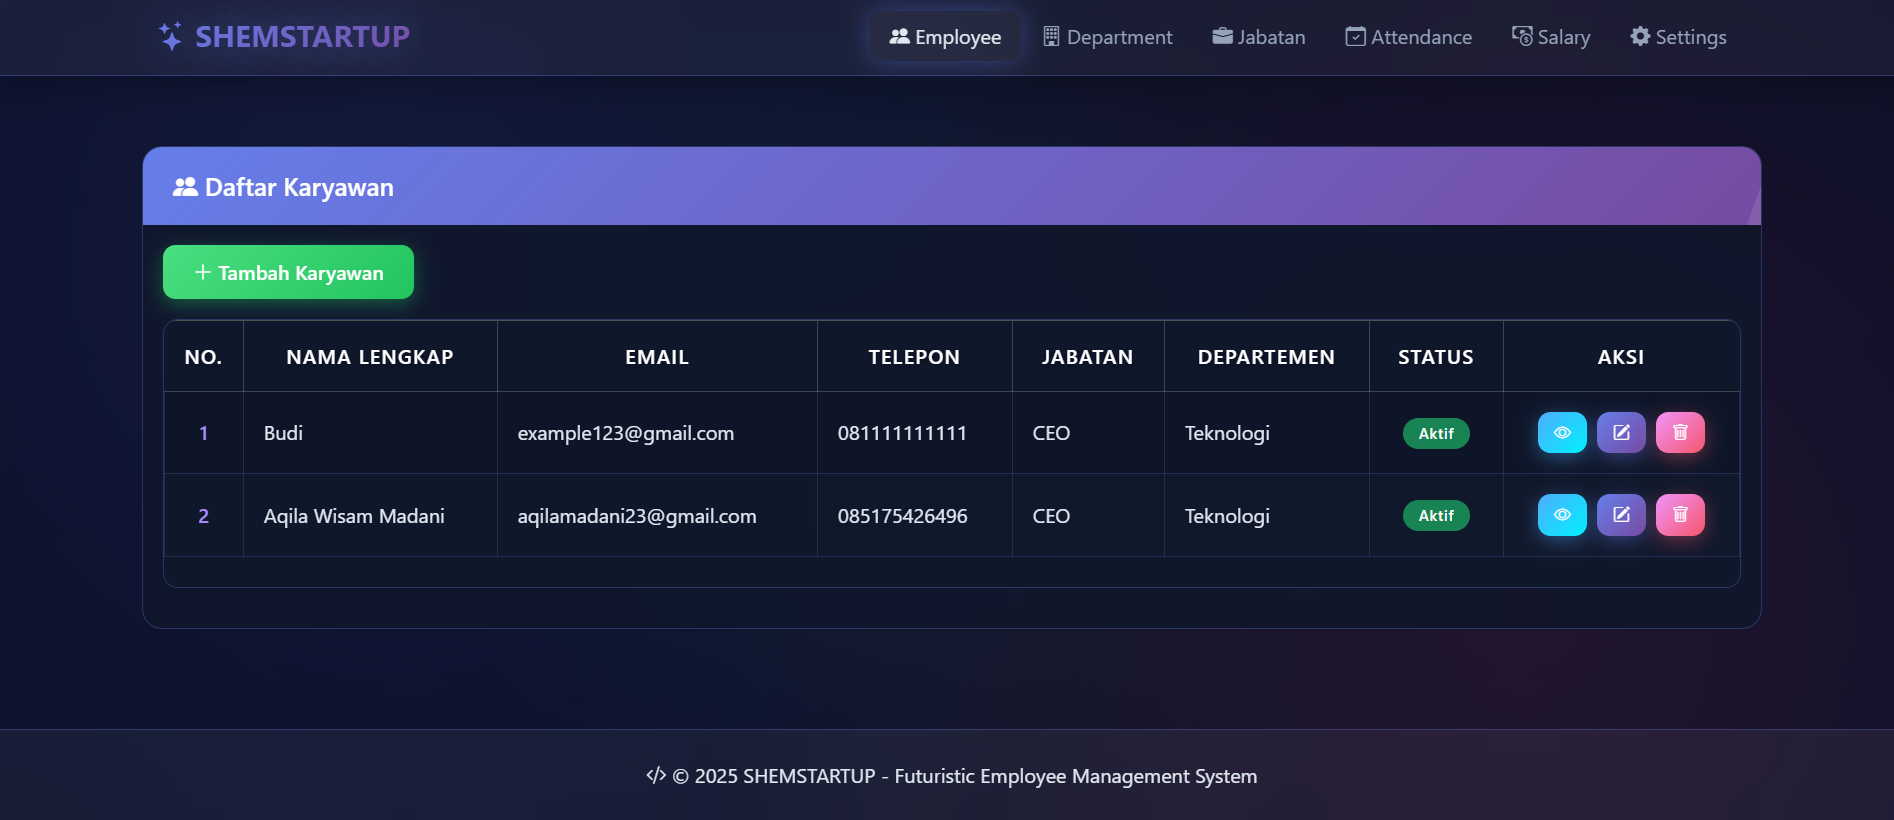
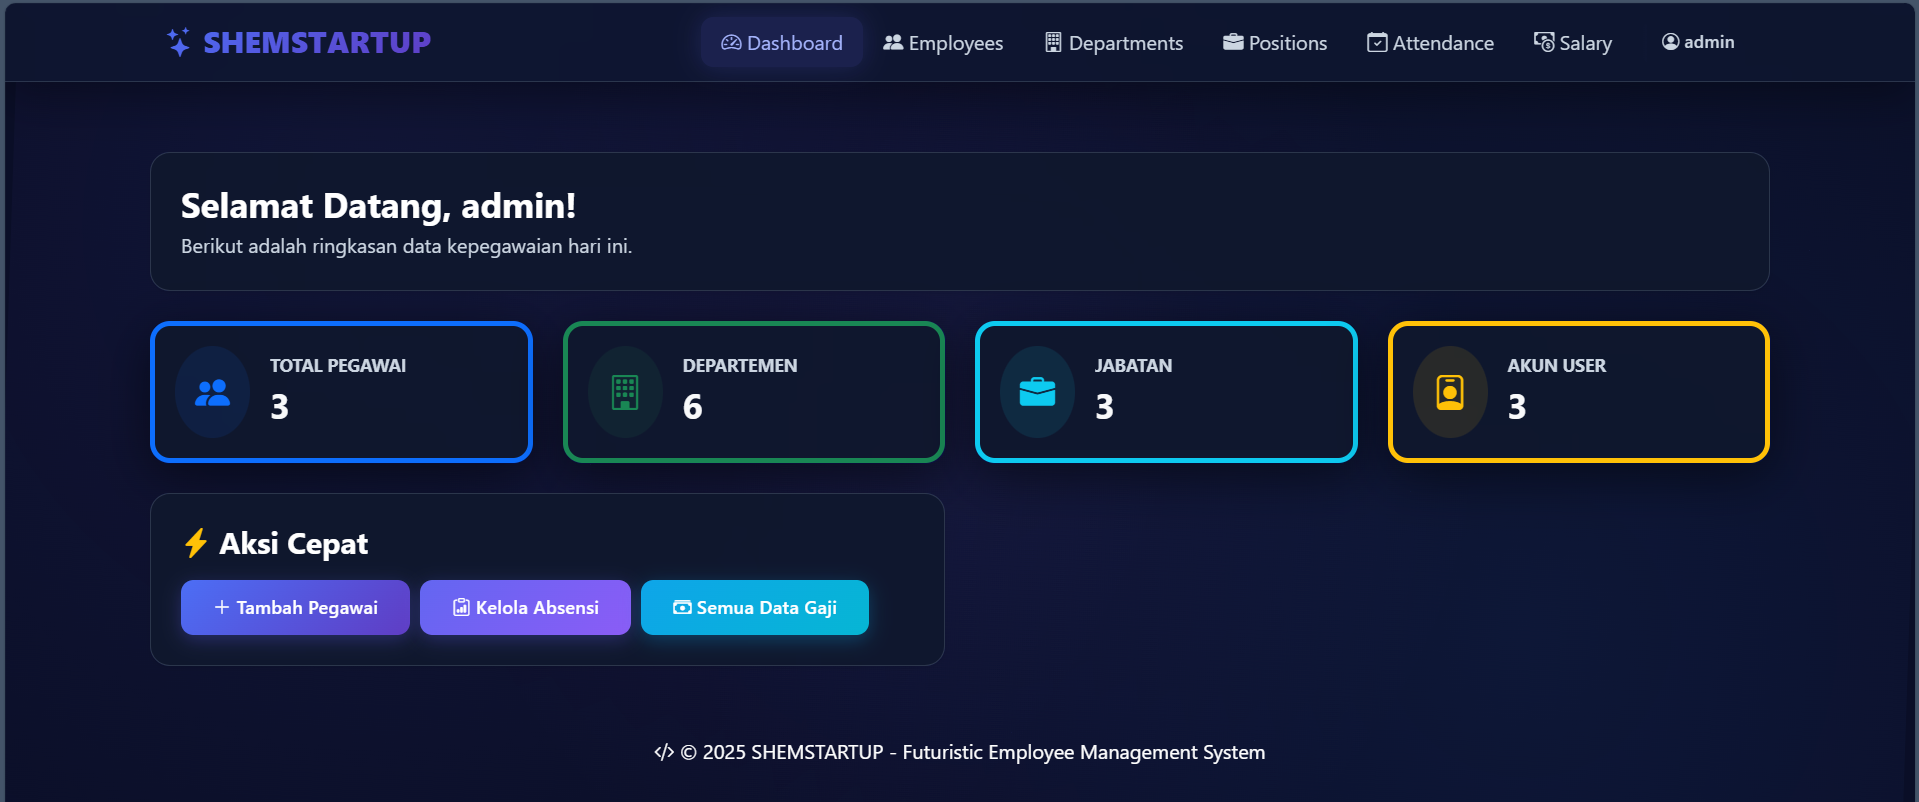
final

diff --git a/README.md b/README.md
@@ -1,33 +1,36 @@
 # SHEMSTARTUP - Aplikasi Manajemen Pegawai
 
-Sebuah sistem manajemen karyawan (Employee Management System) yang futuristik dan modern, dibangun menggunakan Laravel. Aplikasi ini dirancang untuk mengelola data inti sumber daya manusia dalam sebuah perusahaan, mulai dari data karyawan, absensi, hingga penggajian.
+Sebuah sistem manajemen karyawan (Employee Management System) yang futuristik dan modern, dibangun menggunakan Laravel 12. Aplikasi ini dirancang untuk mengelola data inti sumber daya manusia dalam sebuah perusahaan, mulai dari data karyawan, absensi, penggajian, hingga manajemen hak akses pengguna.
 
 ![app-pegawai/employees](images/Screenshot-employee.png)
 
 ## 🚀 Fitur Utama
 
-Aplikasi ini mencakup modul-modul penting untuk manajemen HR:
+Aplikasi ini mencakup modul-modul penting untuk manajemen HR, dengan tambahan fitur keamanan dan *role* terbaru:
 
-* **Manajemen Karyawan:** Mengelola (CRUD) data karyawan, termasuk informasi pribadi, email, nomor telepon, alamat, tanggal masuk, dan status (aktif, tidak aktif, cuti).
+* **Sistem Multi-User & Role (RBAC):** Pemisahan hak akses yang tegas antara **Admin** (akses penuh ke pengaturan & data) dan **Employee** (akses terbatas sesuai peran).
+* **Otentikasi Lengkap:** Dilengkapi fitur Login, Register, Reset Password, dan Verifikasi Email menggunakan Laravel Breeze.
+* **Manajemen Karyawan:** Mengelola (CRUD) data karyawan, termasuk informasi pribadi, email, nomor telepon, alamat, tanggal masuk, dan status.
 * **Manajemen Departemen:** Mengelola daftar departemen yang ada di perusahaan.
 * **Manajemen Jabatan:** Mengelola daftar jabatan, termasuk penetapan `gaji_pokok` (gaji dasar) untuk setiap jabatan.
 * **Manajemen Absensi:** Mencatat absensi harian karyawan, termasuk `waktu_masuk`, `waktu_keluar`, dan `status_absensi` (hadir, izin, sakit, alpha).
 * **Manajemen Gaji:** Menghitung gaji bulanan karyawan berdasarkan gaji pokok, `tunjangan`, dan `potongan`.
-* **Slip Gaji Sederhana:** Menampilkan rincian slip gaji (take home pay) untuk setiap karyawan per bulan.
+* **Slip Gaji Sederhana:** Menampilkan rincian slip gaji (*take home pay*) untuk setiap karyawan per bulan.
 * **Tampilan Futuristik:** Menggunakan layout master dengan tema *space* / futuristik gelap.
 
 ## 🛠 Tumpukan Teknologi (Tech Stack)
 
-* **Backend:** Laravel
+* **Backend:** Laravel 12.x
 * **Frontend:** Blade Templates, Bootstrap 5
+* **Authentication:** Laravel Breeze
 * **Asset Bundling:** Vite
-* **Database:** Dikonfigurasi untuk MySQL (default `app_pegawai`)
+* **Database:** MySQL
 
 ## 📦 Instalasi dan Penyiapan
 
 1.  **Clone repositori ini:**
     ```bash
-    git clone https://github.com/Wisam23-am/app-pegawai.git
+    git clone [https://github.com/Wisam23-am/app-pegawai.git](https://github.com/Wisam23-am/app-pegawai.git)
     cd app-pegawai
     ```
 
@@ -36,9 +39,10 @@ Aplikasi ini mencakup modul-modul penting untuk manajemen HR:
     composer install
     ```
 
-3.  **Instal dependensi Node.js (NPM):**
+3.  **Instal dependensi Node.js (NPM) dan Build Assets:**
     ```bash
     npm install
+    npm run build
     ```
 
 4.  **Siapkan file `.env`:**
@@ -52,25 +56,37 @@ Aplikasi ini mencakup modul-modul penting untuk manajemen HR:
     ```
 
 6.  **Konfigurasi Database:**
-    Buka file `.env` dan sesuaikan pengaturan database (DB_DATABASE, DB_USERNAME, DB_PASSWORD) sesuai dengan setup lokal Anda.
+    Buka file `.env` dan sesuaikan pengaturan database (`DB_DATABASE`, `DB_USERNAME`, `DB_PASSWORD`) sesuai dengan setup lokal Anda.
 
-7.  **Jalankan Migrasi Database:**
-    Ini akan membuat semua tabel yang diperlukan (employees, departments, positions, attendance, salaries, dll.).
+7.  **Jalankan Migrasi dan Seeder:**
+    Perintah ini akan membuat tabel dan mengisi data pengguna awal (Admin & Karyawan).
     ```bash
-    php artisan migrate
+    php artisan migrate --seed
     ```
 
-9.  **Selesai!**
-    Aplikasi sekarang seharusnya berjalan di `http://127.0.0.1:8000`.
+8.  **Selesai!**
+    Jalankan server lokal:
+    ```bash
+    php artisan serve
+    ```
+    Akses aplikasi di `http://127.0.0.1:8000`.
+
+## 🔐 Akun Default (Login)
+
+Setelah menjalankan `php artisan migrate --seed`, Anda dapat masuk menggunakan akun berikut:
+
+| Role | Email | Password |
+| :--- | :--- | :--- |
+| **Administrator** | `admin@example.com` | `password123` |
+| **Karyawan** | `test@example.com` | *(password default)* |
 
 ## 🗺 Rute Aplikasi (Modul)
 
-Berikut adalah rute utama yang didefinisikan dalam aplikasi ini:
-
-* `/employees` - (Manajemen Karyawan)
-* `/departments` - (Manajemen Departemen)
-* `/positions` - (Manajemen Jabatan)
-* `/attendances` - (Manajemen Absensi)
-* `/salaries` - (Manajemen Gaji)
+* `/dashboard` - Halaman utama setelah login
+* `/employees` - Manajemen Karyawan
+* `/departments` - Manajemen Departemen
+* `/positions` - Manajemen Jabatan
+* `/attendances` - Manajemen Absensi
+* `/salaries` - Manajemen Gaji
 
 ## Terimakasih Telah Mengunjungi Halaman Ini
